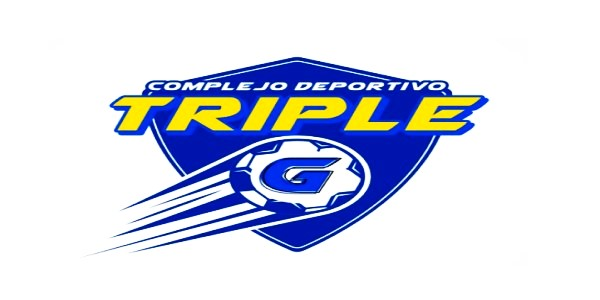
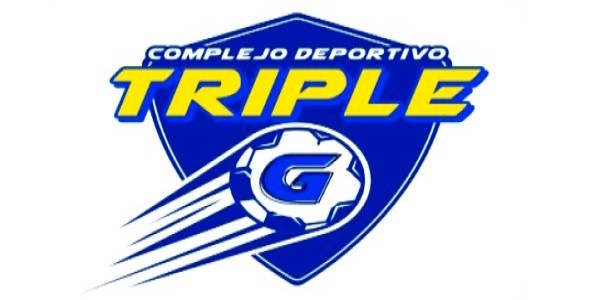
ConfigLogximg

diff --git a/resources/views/Servicios/complejo.blade.php b/resources/views/Servicios/complejo.blade.php
@@ -58,7 +58,7 @@
                     <div class="grid gap-6 lg:grid-cols-2 lg:space-x-6 animate__animated animate__fadeInUp mt-6">
                         <!-- Imagen -->
                         <div class="order-1 lg:order-1 flex justify-center">
-                            <img src="/img/Publicidad/imagencomplejo4.jpeg" alt="Complejo deportivo"
+                            <img src="/img/Publicidad/Comple1.jpg" alt="Complejo deportivo"
                                 class="w-full rounded-xl shadow-lg transition-transform duration-500 transform group-hover:scale-105 hover:shadow-2xl   hover:shadow-[#FFD700]">
                         </div>
                         <!-- Texto en tarjeta solo en pantallas grandes -->
